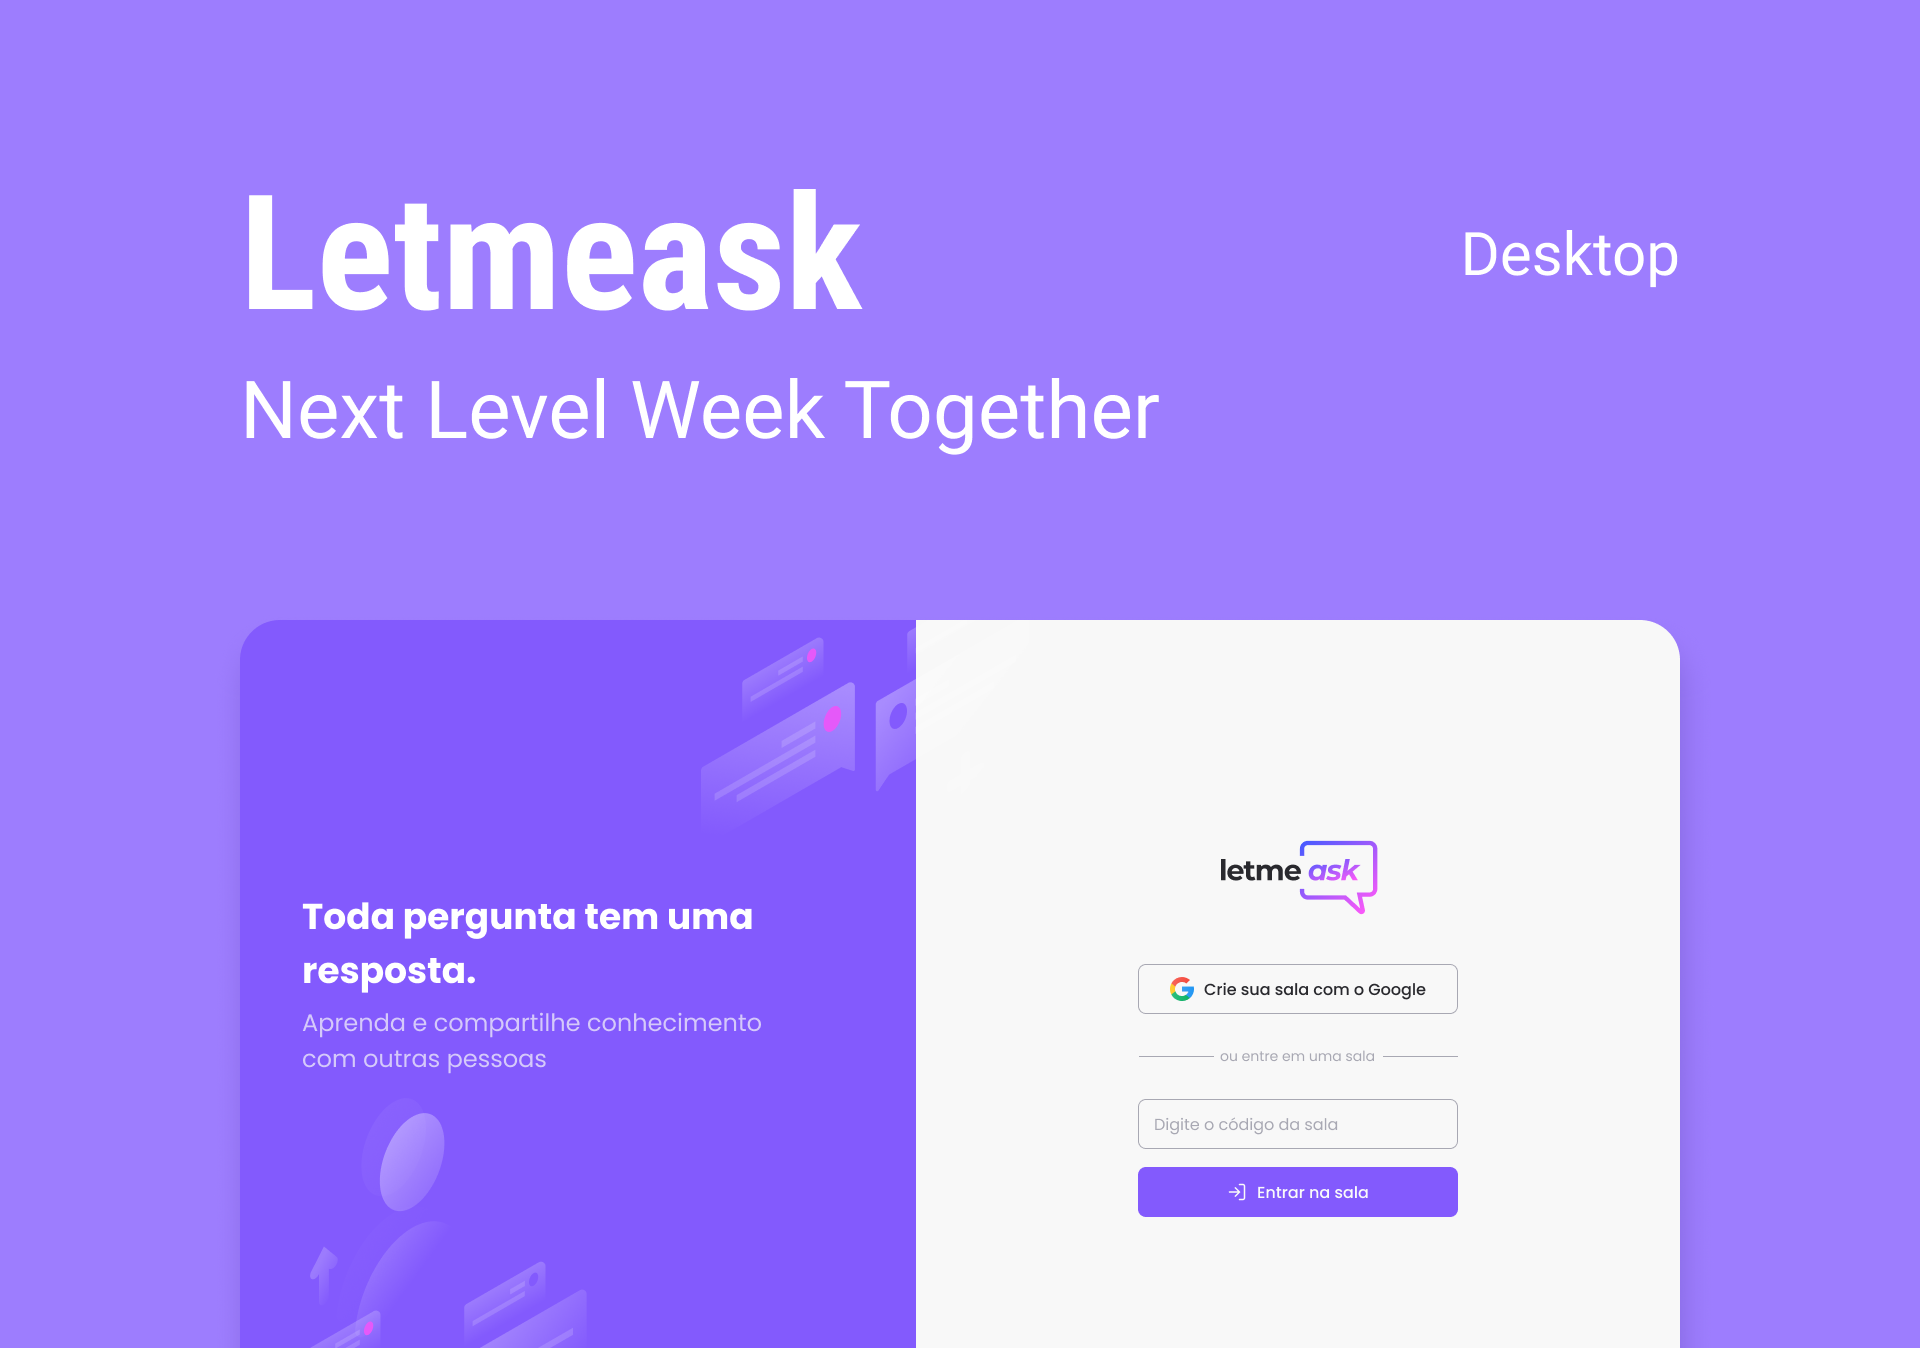
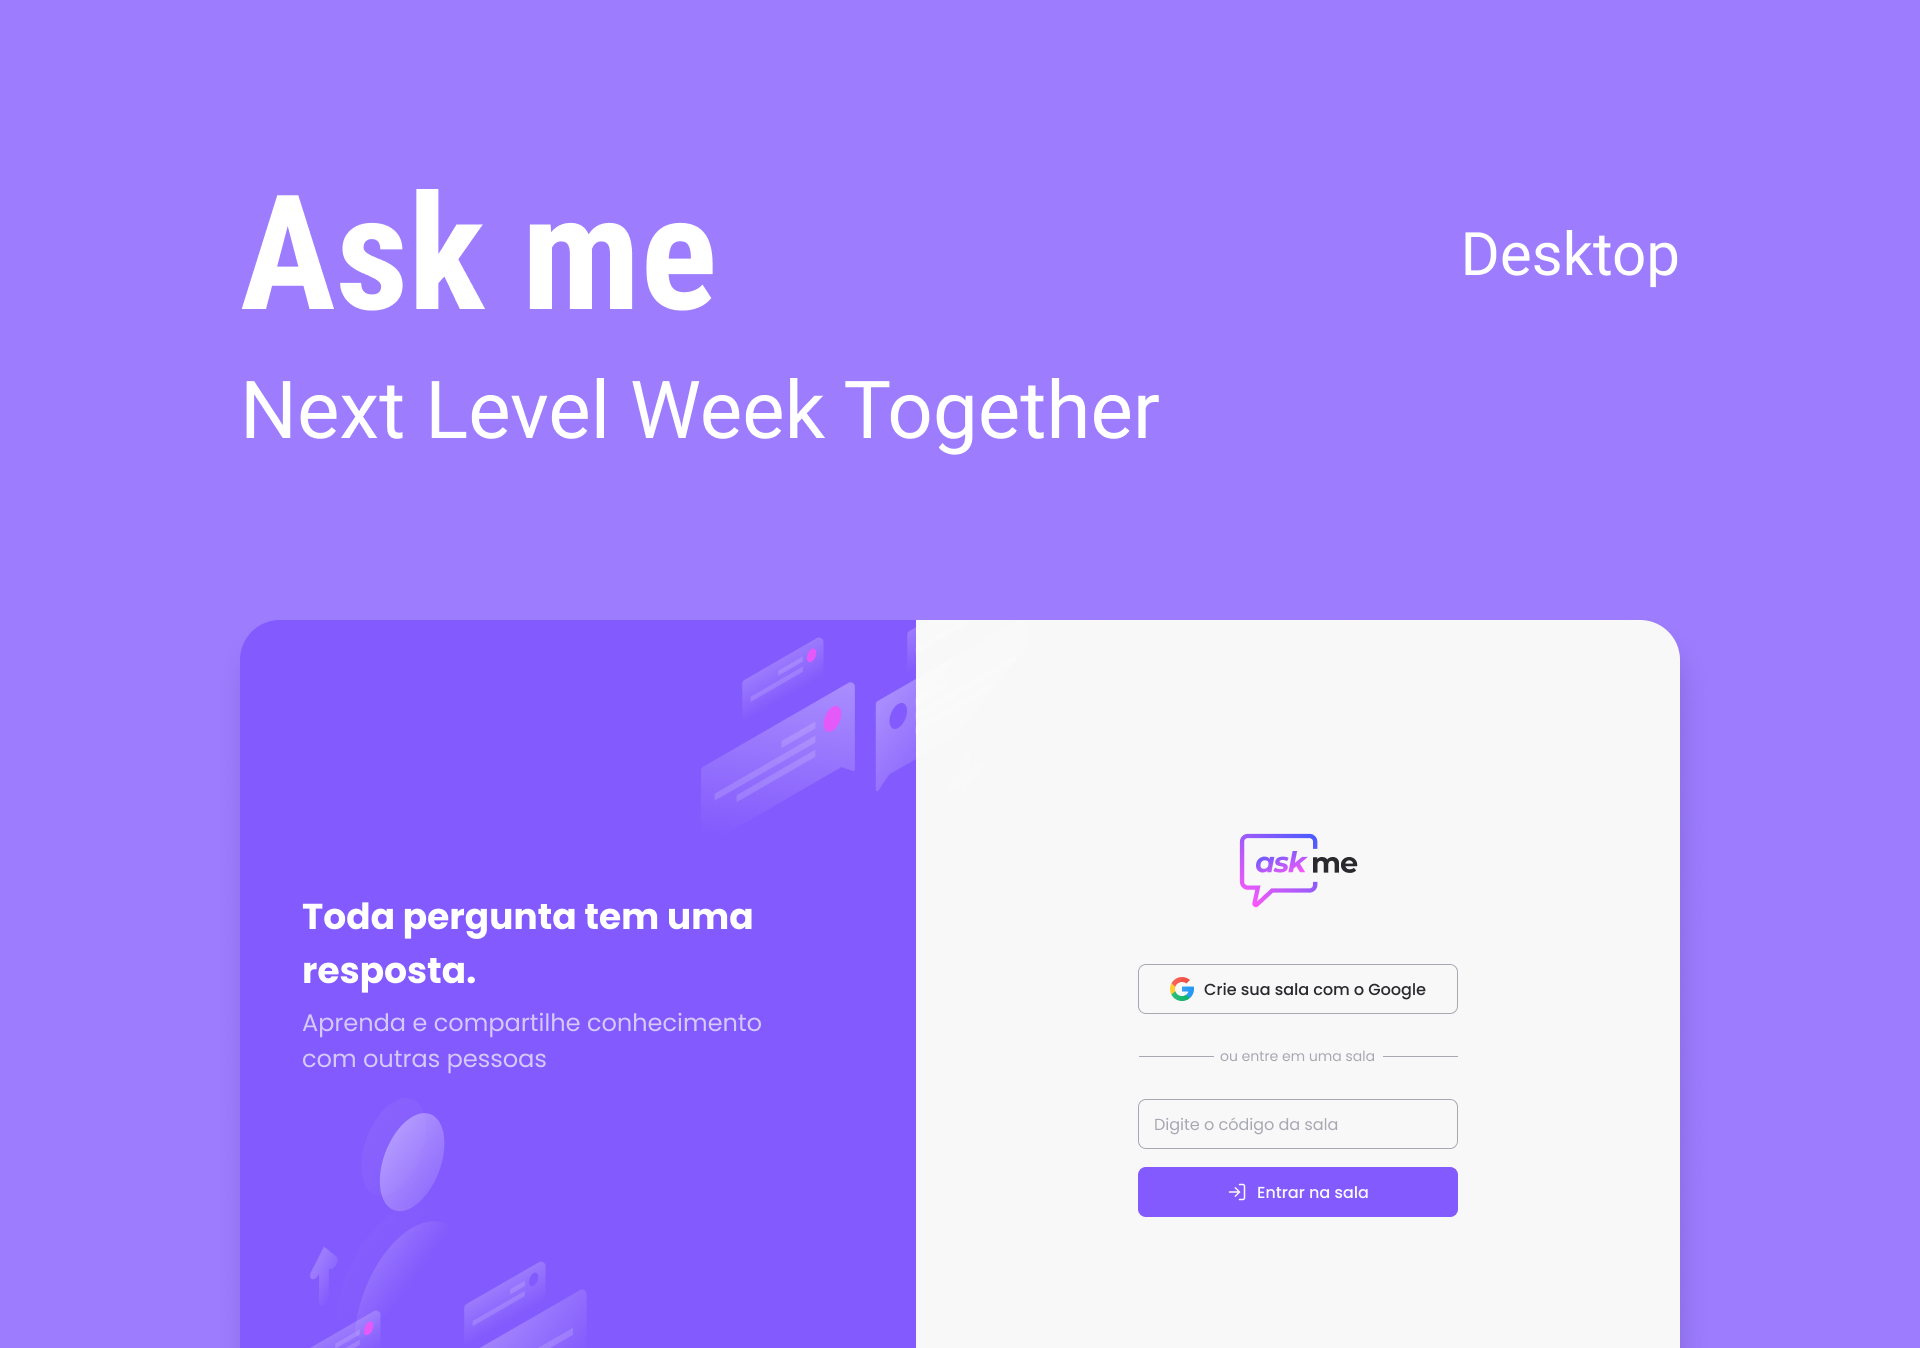
update readme

Changed region(s): [[0.125, 0.1246, 0.4688, 0.2493], [0.625, 0.6231, 0.7188, 0.6855]]

diff --git a/README.md b/README.md
@@ -1,45 +1,55 @@
-
 <p align="center">
-  <img src="./.github/capa.png" width="90%" alt="let me ask logo" />
+  <img src="./.github/capa.png" width="90%" alt="ask me capa" />
 </p>
 
 <h3 align="center">
   Application preview:
-  <a href="https://letmeask-38e37.web.app">
-    Let me ask
+  <a href="https://askme-nl.web.app/">
+    Ask Me
   </a>
 </h3>
 
 <br />
 
 <p align="center">
-  <img src="https://img.shields.io/github/license/maycongc/letmeask?color=%23835afd" />
+  <img src="https://img.shields.io/github/license/maycongc/askme?color=%23835afd" />
 </p>
 
 <br />
 
 ## Sobre o Projeto
+
 Este projeto visa a auxiliar pessoas, como por exemplo um streamer, a sanar as dúvidas de sua audiência em tempo real. Onde um usuário pode criar uma sala, compartilhar o código desta sala para que outros possam entrar e enviar suas perguntas, além de votar nas que acharem mais relevantes.
 
 <br/>
 
 ## 🚀 Tecnologias Utilizadas
-- [Node.js](https://nodejs.org/en/)
-- [TypeScript](https://www.typescriptlang.org/)
-- [ReactJS](https://reactjs.org/)
-- [React Hot Toast](https://react-hot-toast.com/)
+
+- [Node.js](https://nodejs.org/en)
+- [TypeScript](https://www.typescriptlang.org)
+- [Firebase](https://firebase.google.com/docs)
+- [ReactJS](https://reactjs.org)
+- [React Hooks](https://reactjs.org/docs/hooks-intro.html)
+- [React Context API](https://reactjs.org/docs/context.html)
+- [React Hot Toast](https://react-hot-toast.com)
+- [React Router DOM](https://reactrouter.com/web/guides/quick-start)
+- [Styled Components](https://styled-components.com/docs)
 
 <br />
 
 ## 🎨 Layout preview
+
 <!-- 🏗👷♂🚧⚠ Em construção...⚠🚧👷♂🏗 -->
+
 ![tela 1](./.github/tela1.png)
 ![tela 2](./.github/tela2.png)
 ![tela 3](./.github/tela3.png)
+![tela 4](./.github/tela4.png)
 
 <br />
 
 ## ✅ Feature
+
 - **[ done ]** Autenticação com contas Google, Facebook, GitHub e Yahoo
 - **[ done ]** Criar sala de perguntas e respostas (se autenticado)
 - **[ done ]** Fechar sala (se autenticado como autor da sala)
@@ -53,15 +63,13 @@ Este projeto visa a auxiliar pessoas, como por exemplo um streamer, a sanar as d
 
 <br />
 
-
-
 <br />
 <a id="como-contribuir"></a>
 
 # 😯 Como contribuir para o projeto
 
 1. Faça um Fork do projeto
-Crie uma Branch para sua Feature (git checkout -b feature/FeatureIncrivel)
+   Crie uma Branch para sua Feature (git checkout -b feature/FeatureIncrivel)
 2. Adicione suas mudanças (git add .)
 3. Comite suas mudanças (git commit -m 'Adicionando uma Feature incrível!)
 4. Faça o Push da Branch (git push origin feature/FeatureIncrivel)
